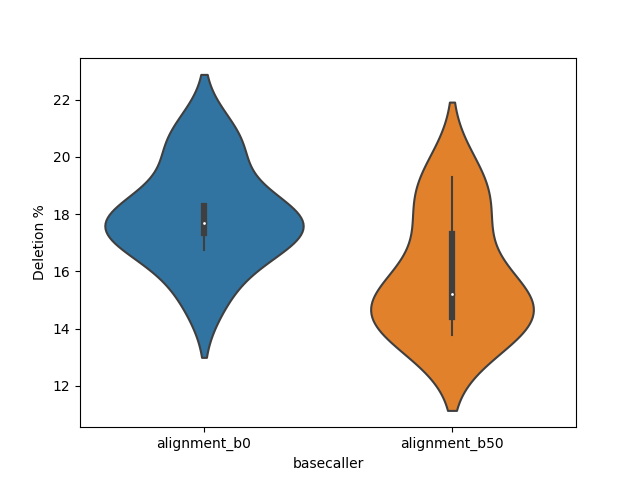
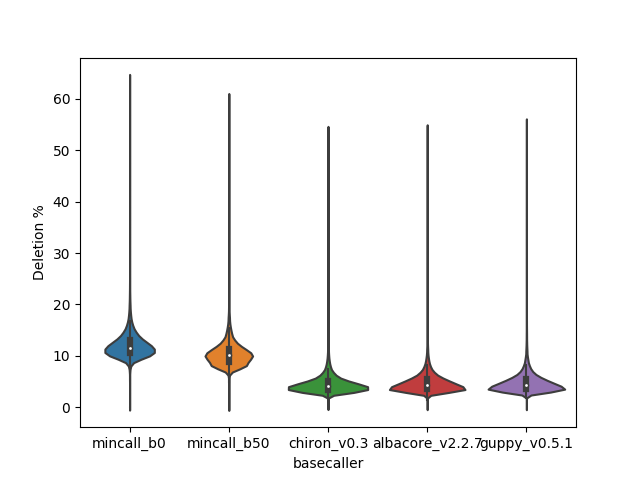
Updated error rates measurement

diff --git a/fig_gen/error_rates.tex b/fig_gen/error_rates.tex
@@ -1,13 +1,13 @@
-\begin{tabular}{lrr}
+\begin{tabular}{lrrrrr}
 \toprule
-basecaller &  alignment\_b0 &  alignment\_b50 \\
+basecaller &  albacore\_v2.2.7 &   chiron\_v0.3 &  guppy\_v0.5.1 &    mincall\_b0 &   mincall\_b50 \\
 \midrule
-Error \%     &     32.585652 &      30.242361 \\
-Match \%     &     85.364048 &      85.607736 \\
-Mismatch \%  &      9.794374 &       9.614377 \\
-Insertion \% &      4.841578 &       4.777887 \\
-Deletion \%  &     17.949700 &      15.850097 \\
-Identity \%  &     72.086729 &      73.422217 \\
-Read length &   4465.777778 &    4556.555556 \\
+Error \%     &        14.623744 &     15.853857 &     14.640501 &     26.071517 &     24.265929 \\
+Match \%     &        90.164753 &     88.699263 &     90.150446 &     85.939433 &     86.137450 \\
+Mismatch \%  &         4.668960 &      5.306113 &      4.676380 &      7.996294 &      7.756997 \\
+Insertion \% &         5.166287 &      5.994623 &      5.173174 &      6.064274 &      6.105553 \\
+Deletion \%  &         4.788497 &      4.553120 &      4.790947 &     12.010950 &     10.403379 \\
+Identity \%  &        85.107055 &     83.880875 &     85.095194 &     75.979653 &     77.305269 \\
+Read length &     21176.881570 &  21342.022159 &  21180.483063 &  19947.572637 &  20252.142049 \\
 \bottomrule
 \end{tabular}
